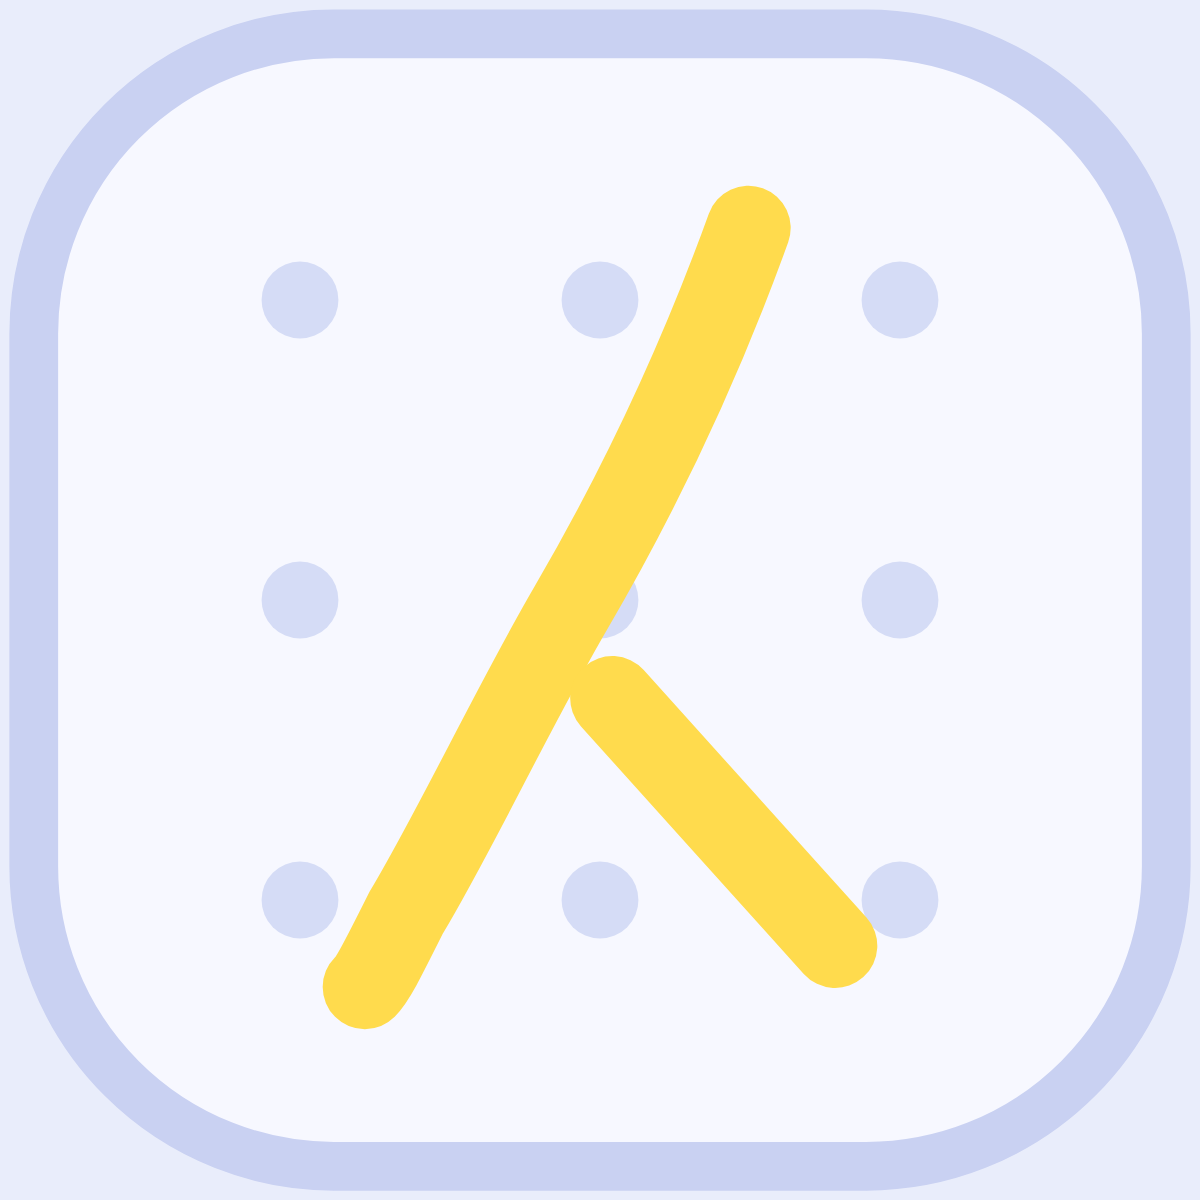
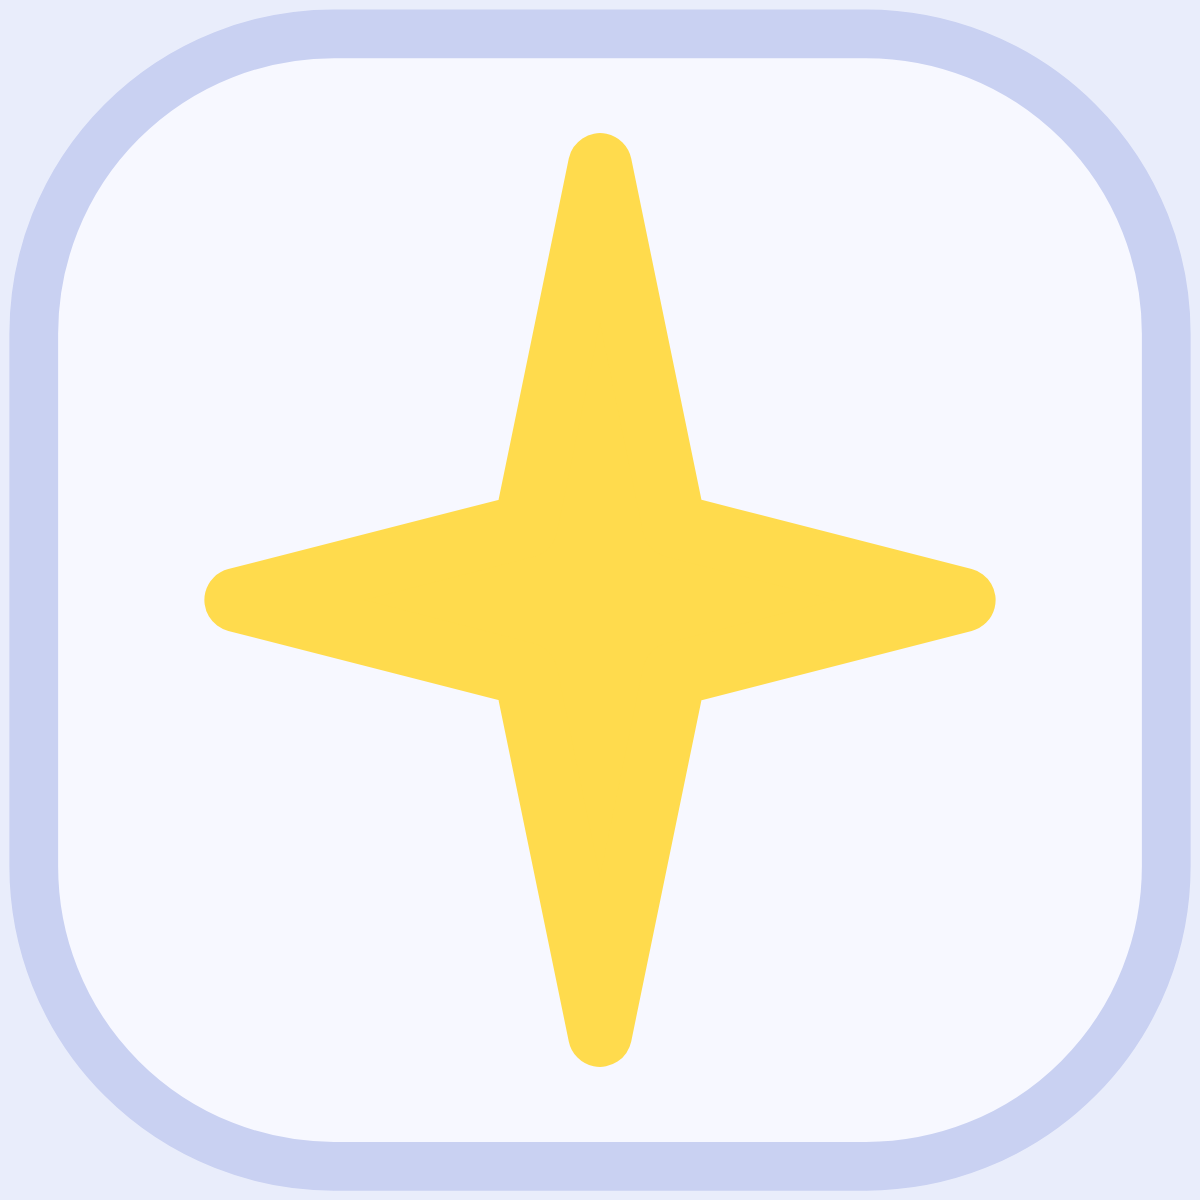
Tweaks

Changed region(s): [[0.1542, 0.0925, 0.8325, 0.8942], [0.7092, 0.2158, 0.8017, 0.2775], [0.2158, 0.2158, 0.2775, 0.2775]]

diff --git a/index.html b/index.html
@@ -16,15 +16,15 @@
 <meta property="og:image:type" content="image/png">
 <meta property="og:image:width" content="1200">
 <meta property="og:image:height" content="1200">
-<meta property="og:image:alt" content="A hand-drawn yellow h in a rounded box">
+<meta property="og:image:alt" content="A yellow sparkle">
 <meta name="twitter:card" content="summary_large_image">
 <meta name="twitter:title" content="hucklberi">
 <meta name="twitter:description" content="Hai! Call me hucklberi or hf. I like coding websites, apps, and video games, and I build with my team Empty Console.">
 <meta name="twitter:image" content="https://hfang1012.github.io/hucklberi/og.png">
-<meta name="twitter:image:alt" content="A hand-drawn yellow h in a rounded box">
-<link rel="icon" href="favicon.svg?v=5" type="image/svg+xml">
-<link rel="icon" href="favicon.png?v=5" type="image/png" sizes="512x512">
-<link rel="apple-touch-icon" href="favicon.png?v=5">
+<meta name="twitter:image:alt" content="A yellow sparkle">
+<link rel="icon" href="favicon.svg?v=7" type="image/svg+xml">
+<link rel="icon" href="favicon.png?v=7" type="image/png" sizes="512x512">
+<link rel="apple-touch-icon" href="favicon.png?v=7">
 <link rel="preconnect" href="https://fonts.googleapis.com">
 <link rel="preconnect" href="https://fonts.gstatic.com" crossorigin>
 <link href="https://fonts.googleapis.com/css2?family=Nunito:wght@600;700;800;900&display=swap" rel="stylesheet">
@@ -83,7 +83,7 @@
   .face {
     background: var(--card); border-radius: 40px;
     box-shadow: 0 0 0 2px var(--edge), 0 10px 0 2px var(--card-lip);
-    padding: clamp(20px, 4.6vh, 50px) clamp(20px, 3.4vw, 40px) clamp(18px, 3.6vh, 40px);
+    padding: clamp(18px, 3.4vh, 36px) clamp(18px, 2.8vw, 32px) clamp(16px, 2.8vh, 30px);
     -webkit-backface-visibility: hidden; backface-visibility: hidden;
   }
   .front { position: relative; }
@@ -132,7 +132,7 @@
   @keyframes photo-in { from { opacity: 0; scale: 0.4; } }
   @keyframes card-in { from { opacity: 0; scale: 0.6; rotate: -4deg; } 30% { opacity: 1; } }
 
-  .top { display: grid; grid-template-columns: auto 1fr; gap: clamp(20px, 3.4vw, 40px); align-items: center; }
+  .top { display: grid; grid-template-columns: auto 1fr; gap: clamp(16px, 2.6vw, 30px); align-items: center; }
 
   /* ---------- the big bubbly avatar ---------- */
   .pic-wrap { padding: 6px 6px 14px; }
@@ -169,9 +169,9 @@
   .ch { display: inline-block; transition: translate 380ms var(--bouncy); }
   .ch:hover { translate: 0 -8px; }
   .word { display: inline-block; white-space: nowrap; } /* keeps letters of a word on one line */
-  .bio { margin: clamp(10px, 2.2vh, 20px) 0 0; color: var(--ink-2); font-size: clamp(15px, 2.1vh, 17px); font-weight: 700; max-width: 34em; --d: 400ms; }
+  .bio { margin: clamp(8px, 1.6vh, 14px) 0 0; color: var(--ink-2); font-size: clamp(15px, 2.1vh, 17px); font-weight: 700; max-width: 34em; --d: 400ms; }
 
-  .rows { margin-top: clamp(10px, 2.4vh, 22px); display: grid; gap: clamp(8px, 1.2vh, 11px); --d: 470ms; }
+  .rows { margin-top: clamp(8px, 1.8vh, 16px); display: grid; gap: clamp(6px, 1vh, 9px); --d: 470ms; }
   .row { display: grid; grid-template-columns: 92px 1fr; align-items: center; font-size: 17px; font-weight: 800; }
   .k { justify-self: start; font-size: 11px; font-weight: 900; letter-spacing: 0.07em; text-transform: uppercase; padding: 2px 9px; border-radius: 999px; }
   .k.discord { color: #4A55C8; background: #E2E5FE; }
@@ -184,12 +184,12 @@
   .v:hover .copy-hint, .v:focus-visible .copy-hint, .v.done .copy-hint { opacity: 1; scale: 1; }
   .v.done .copy-hint { color: var(--yellow-ink); background: var(--yellow-soft); }
   /* GitHub's pill says where the link goes; its arrow nudges up and out on hover */
-  .go-hint { color: var(--purple-ink); background: var(--purple-soft); }
-  .go-hint svg { width: 10px; height: 10px; margin-left: 4px; vertical-align: -0.5px; transition: translate 300ms var(--bouncy); }
+  .go-hint { display: inline-flex; align-items: center; gap: 4px; color: var(--purple-ink); background: var(--purple-soft); }
+  .go-hint svg { display: block; width: 13px; height: 13px; flex: none; transition: translate 300ms var(--bouncy); }
   .v:hover .go-hint svg { translate: 2px -2px; }
 
   /* likes: chunky keys you can press */
-  .likes { margin-top: clamp(12px, 2.6vh, 24px); display: flex; flex-wrap: wrap; gap: 10px 10px; --d: 540ms; }
+  .likes { margin-top: clamp(10px, 2vh, 18px); display: flex; flex-wrap: wrap; gap: 10px 10px; --d: 540ms; }
   .like {
     display: inline-flex; align-items: center; gap: 7px; height: 36px; padding: 0 14px 0 10px; border-radius: 14px;
     font-size: 14px; font-weight: 800; margin-bottom: 4px;
@@ -261,7 +261,7 @@
 
   /* ---------- projects tray ---------- */
   .tray {
-    margin-top: clamp(16px, 4vh, 38px); background: var(--well); border-radius: 30px; padding: 16px;
+    margin-top: clamp(14px, 2.8vh, 26px); background: var(--well); border-radius: 30px; padding: 14px;
     box-shadow: inset 0 -4px 0 var(--card-lip);
   }
   .tray-head { display: flex; align-items: baseline; justify-content: space-between; gap: 10px; margin: 2px 6px 12px; animation: rise 700ms var(--bouncy) 620ms both; }
@@ -296,6 +296,7 @@
   .tile .ico img { width: 100%; height: 100%; object-fit: cover; }
   .tile .ico svg { width: 32px; height: 32px; }
   .tile strong { display: block; font-size: 17px; font-weight: 900; line-height: 1.2; }
+  .wip { display: inline-block; margin-left: 6px; vertical-align: 2px; font-size: 10px; font-weight: 900; letter-spacing: 0.07em; line-height: 1.5; padding: 0 7px; border-radius: 999px; color: #4A55C8; background: #E2E5FE; }
   .tile small { display: block; font-size: 13px; font-weight: 700; color: var(--ink-2); line-height: 1.3; margin-top: 2px; }
   .proj.pane  { --t-c: var(--purple); --t-lip: var(--purple-lip); --t-soft: var(--purple-soft); --t-lip2: #D5C8FA; --t-ink: var(--purple-ink); }
   .proj.team  { --t-c: var(--blue);   --t-lip: var(--blue-lip);   --t-soft: var(--blue-soft);   --t-lip2: #C2CCF4; --t-ink: var(--blue-ink); }
@@ -386,6 +387,7 @@
     .tile { grid-template-columns: 1fr; justify-items: center; text-align: center; gap: 6px; padding: 10px 6px 9px; border-radius: 20px; }
     .tile strong { font-size: 14px; }
     .tile small { display: none; }
+    .wip { display: table; margin: 3px auto 0; }
     .tile .ico { width: 42px; height: 42px; border-radius: 14px; }
     .tile .ico svg { width: 26px; height: 26px; }
     .tile .ico svg.px { width: 100%; height: 100%; clip-path: inset(0 round 14px); }
@@ -463,9 +465,9 @@
 
         <div class="rows">
           <div class="row"><span class="k discord">Discord</span><button class="v copy" type="button" data-copy="basicallyahucklberi">basicallyahucklberi<span class="copy-hint">Copy</span></button></div>
-          <div class="row"><span class="k server">Server</span><a class="v" href="https://discord.gg/qUaJw55eEW" target="_blank" rel="noopener">discord.gg/qUaJw55eEW<span class="copy-hint go-hint">Join<svg viewBox="0 0 16 16" fill="none" stroke="currentColor" stroke-width="2.6" stroke-linecap="round" stroke-linejoin="round" aria-hidden="true"><path d="M6 3h7v7M13 3L4 12"/></svg></span></a></div>
+          <div class="row"><span class="k server">Server</span><a class="v" href="https://discord.gg/qUaJw55eEW" target="_blank" rel="noopener">discord.gg/qUaJw55eEW<span class="copy-hint go-hint">Join<svg viewBox="0 0 16 16" fill="none" stroke="currentColor" stroke-width="2.4" stroke-linecap="round" stroke-linejoin="round" aria-hidden="true"><path d="M5.5 3.5h7v7M12.5 3.5l-9 9"/></svg></span></a></div>
           <div class="row"><span class="k email">Email</span><button class="v copy" type="button" data-copy="hfanggamedev@gmail.com">hfanggamedev@gmail.com<span class="copy-hint">Copy</span></button></div>
-          <div class="row"><span class="k github">GitHub</span><a class="v" href="https://github.com/HFang1012" target="_blank" rel="noopener">HFang1012<span class="copy-hint go-hint">GitHub<svg viewBox="0 0 16 16" fill="none" stroke="currentColor" stroke-width="2.6" stroke-linecap="round" stroke-linejoin="round" aria-hidden="true"><path d="M6 3h7v7M13 3L4 12"/></svg></span></a></div>
+          <div class="row"><span class="k github">GitHub</span><a class="v" href="https://github.com/HFang1012" target="_blank" rel="noopener">HFang1012<span class="copy-hint go-hint">GitHub<svg viewBox="0 0 16 16" fill="none" stroke="currentColor" stroke-width="2.4" stroke-linecap="round" stroke-linejoin="round" aria-hidden="true"><path d="M5.5 3.5h7v7M12.5 3.5l-9 9"/></svg></span></a></div>
         </div>
 
         <div class="likes" role="list" aria-label="Things I like">
@@ -488,7 +490,7 @@
         <div class="proj pane" style="--d:760ms">
           <button class="tile" type="button" aria-expanded="false" aria-controls="pop-pane">
             <span class="ico"><img src="https://hfang1012.github.io/Pane-Mac/icon.png" alt="" width="52" height="52"></span>
-            <span><strong>Pane</strong><small>Small tools for your Mac</small></span>
+            <span><strong>Pane<span class="wip">WIP</span></strong><small>Small tools for your Mac</small></span>
           </button>
           <div class="pop" id="pop-pane" role="group" aria-label="About Pane">
             <div class="pop-head">
@@ -511,7 +513,7 @@
         <div class="proj mcstats" style="--d:840ms">
           <button class="tile" type="button" aria-expanded="false" aria-controls="pop-mcstats">
             <span class="ico"><svg class="px" viewBox="0 0 8 8" aria-hidden="true"><rect width="8" height="8" fill="#8a5a33"/><rect width="8" height="3" fill="#5fae4c"/><path fill="#5fae4c" d="M1 3h1v1H1zM4 3h2v1H4zM7 3h1v1H7z"/><path fill="#86cf6f" d="M0 0h2v1H0zM5 0h1v1H5zM3 1h1v1H3zM6 1h2v1H6z"/><path fill="#6b4324" d="M2 5h1v1H2zM6 4h1v1H6zM4 6h2v1H4zM0 7h1v1H0z"/><path fill="#a47148" d="M0 4h1v1H0zM3 5h1v1H3zM6 6h1v1H6zM2 7h1v1H2z"/></svg></span>
-            <span><strong>mcstats</strong><small>Minecraft server stats</small></span>
+            <span><strong>mcstats<span class="wip">WIP</span></strong><small>Minecraft server stats</small></span>
           </button>
           <div class="pop" id="pop-mcstats" role="group" aria-label="About mcstats">
             <div class="pop-head">
